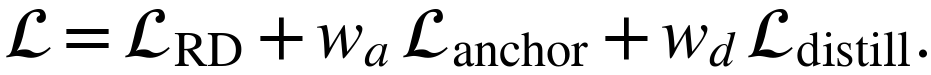
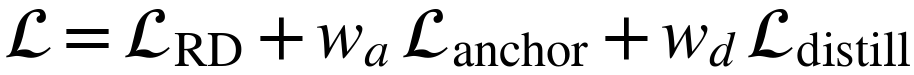
A caption in the submitted PDF read "Table N."
The measurement protocol is built with rows_tbl, which has no caption
of its own, so its caption was written by hand and never passed
through _autonum -- the placeholder reached the page. It is now
unnumbered like the notation table above it: nothing cites it by
number, it is a reference box rather than a result, and routing it
through tbl() would renumber every table after it. check_render was
looking for "Figure N." and now looks for Table, Section and Eq. too.

diff --git a/scripts/build_pdf.py b/scripts/build_pdf.py
@@ -1475,7 +1475,12 @@ def content(colw, fullw):
                     "decode's, on the same latent"]]
     rows_tbl([["", ""]] + proto)
     A(Paragraph(sub(
-        r"<b>Table N. The measurement protocol.</b> Every number in this "
+        # Unnumbered, like the notation table above it: this is a reference
+        # box rather than a result, nothing cites it by number, and routing it
+        # through tbl() would renumber every table after it. It reached the
+        # submitted PDF reading "Table N." because rows_tbl has no caption of
+        # its own and the hand-written one never saw _autonum.
+        r"<b>The measurement protocol.</b> Every number in this "
         r"paper is measured this way. The supplement varies each line in turn "
         r"and reports what the alternative costs."), CAP))
     h2("5.1 Main result")

diff --git a/scripts/check_render.py b/scripts/check_render.py
@@ -47,7 +47,11 @@ def main(argv):
             ("unexpanded macro", re.findall(r"\\[A-Za-z]{3,}", t)),
             ("stray backslash", re.findall(r"\\\d", t)),
             ("unresolved reference token", re.findall(r"\[\[[a-z]+:", t)),
-            ("caption still says Figure N", re.findall(r"Figure N\.", t)),
+            # "Table N." reached a built PDF: the protocol table is written
+            # with rows_tbl and a hand-made caption, so it never went through
+            # the numbering that fig() and tbl() apply.
+            ("caption still says Figure/Table/Section N",
+             re.findall(r"(?:Figure|Table|Section|Eq\.) N\b", t)),
             ("brace from a macro value", re.findall(r"[{}]", t)),
             ("math delimiter", re.findall(r"\$", t)),
         ]
